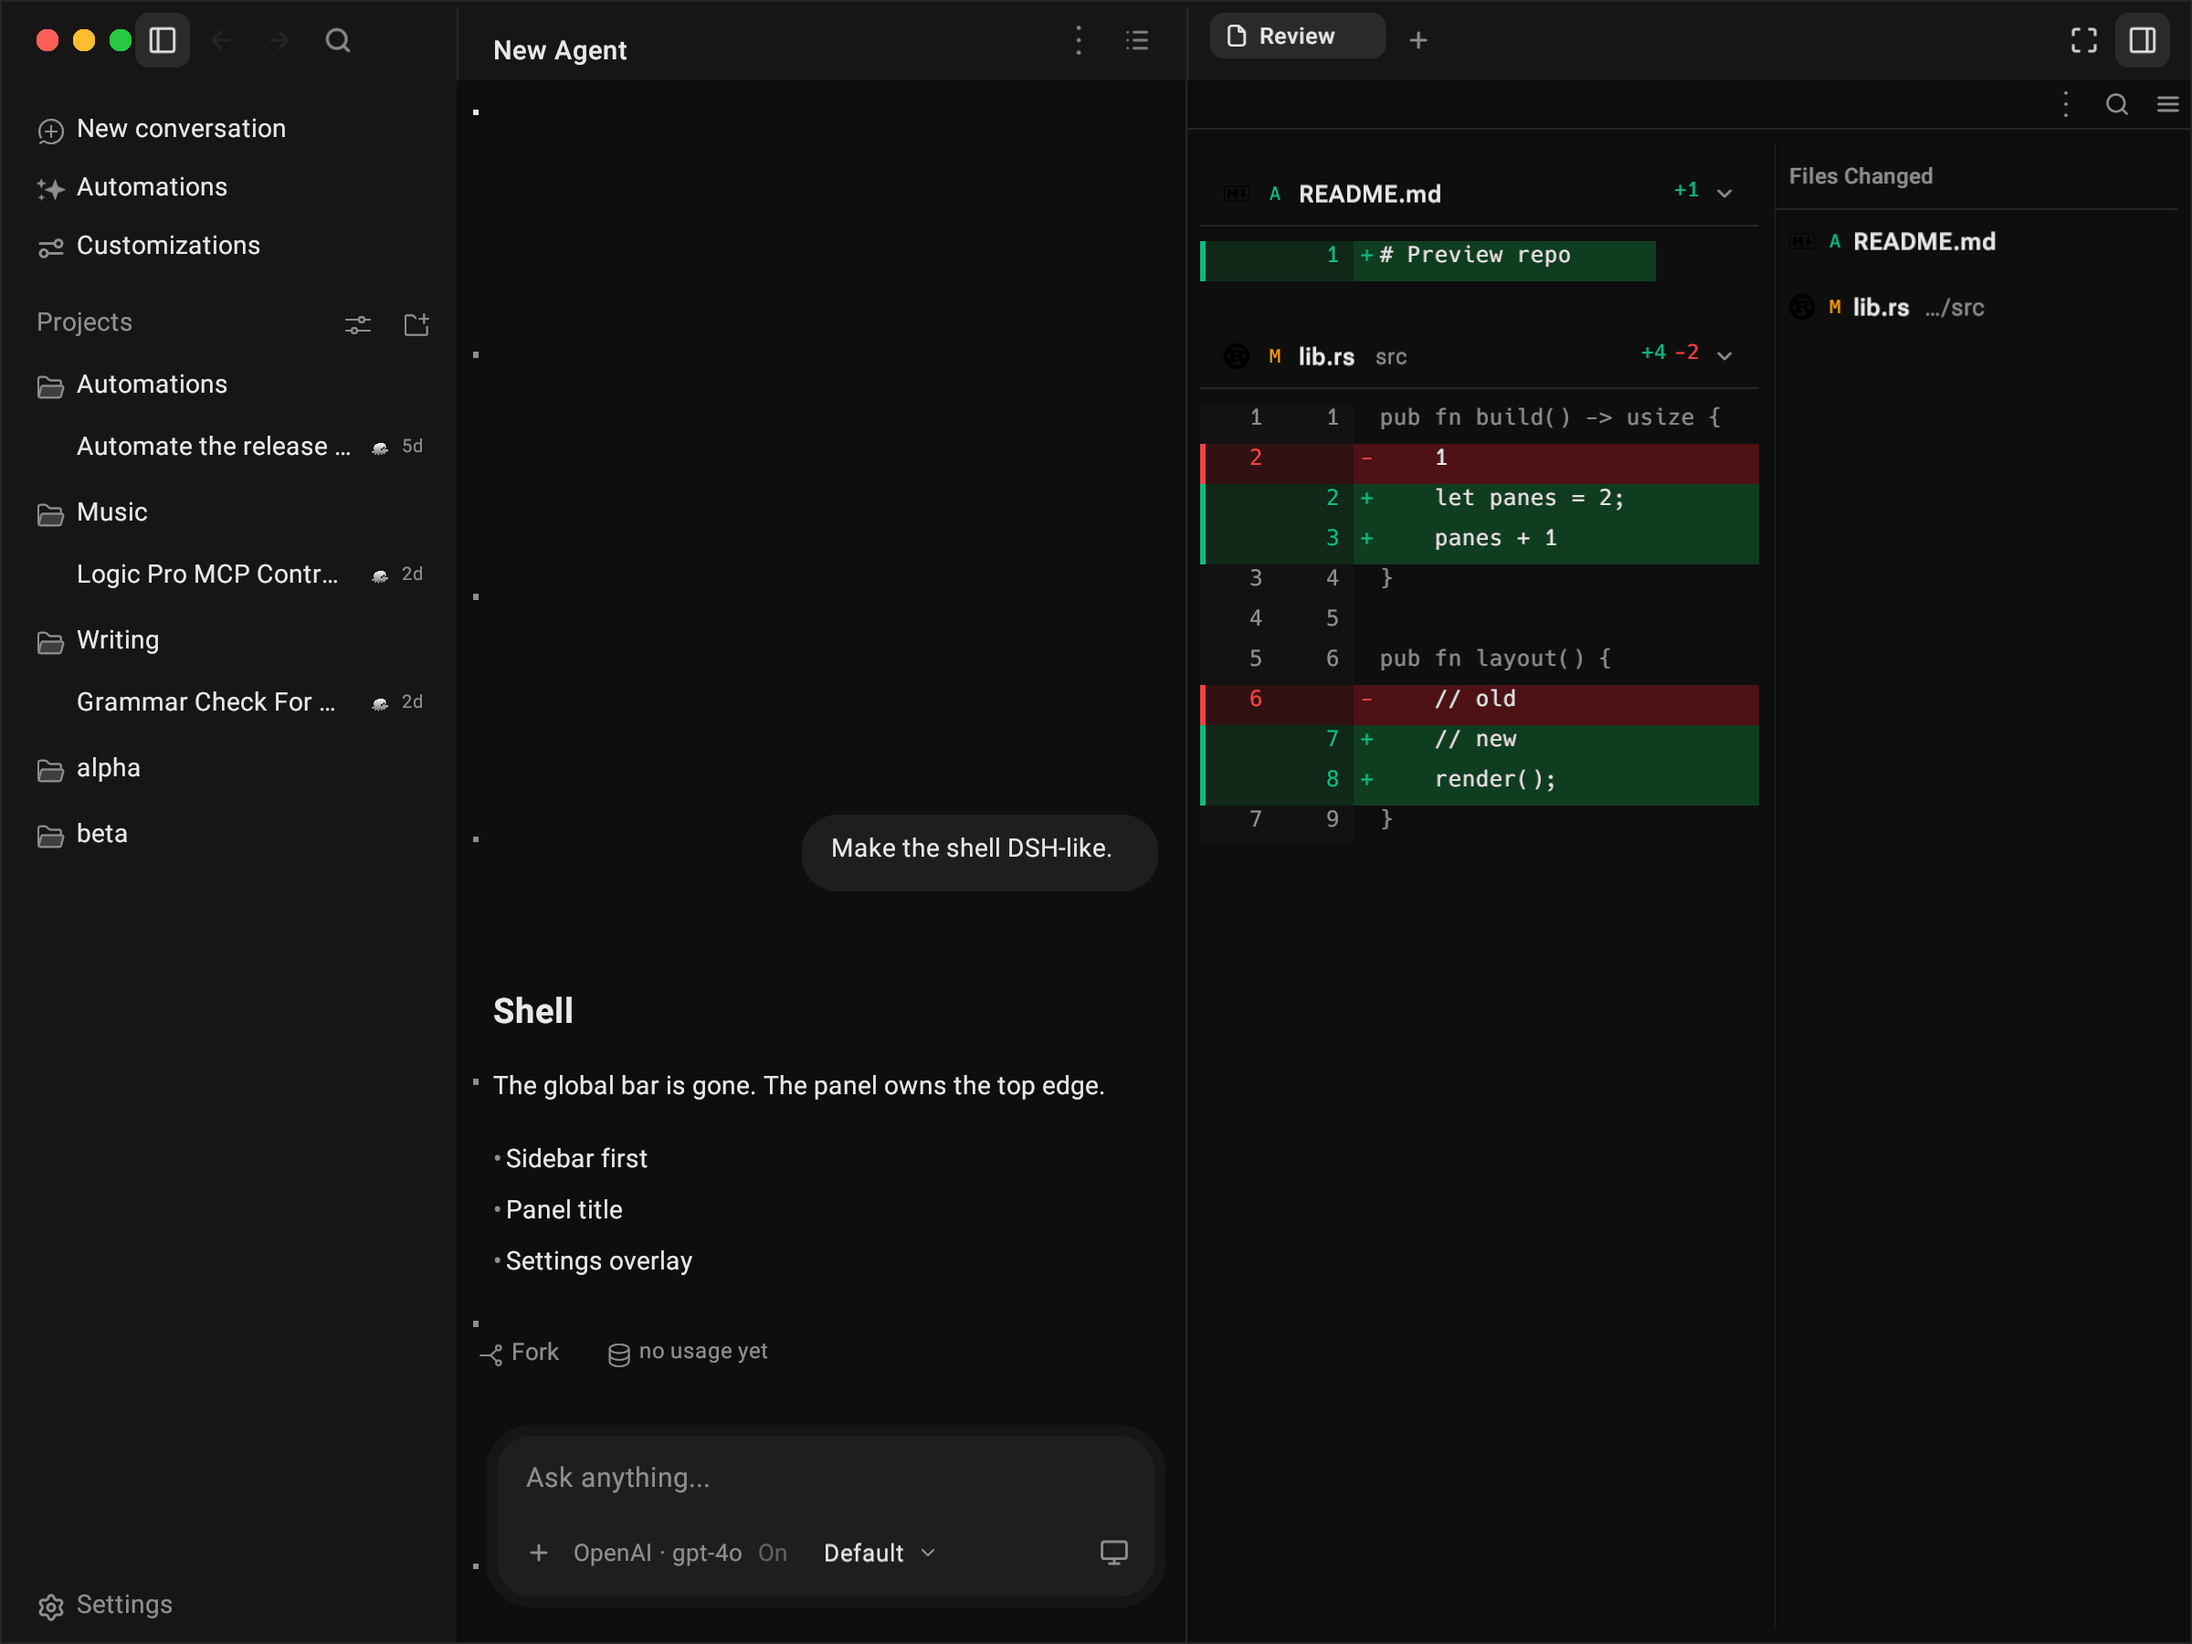
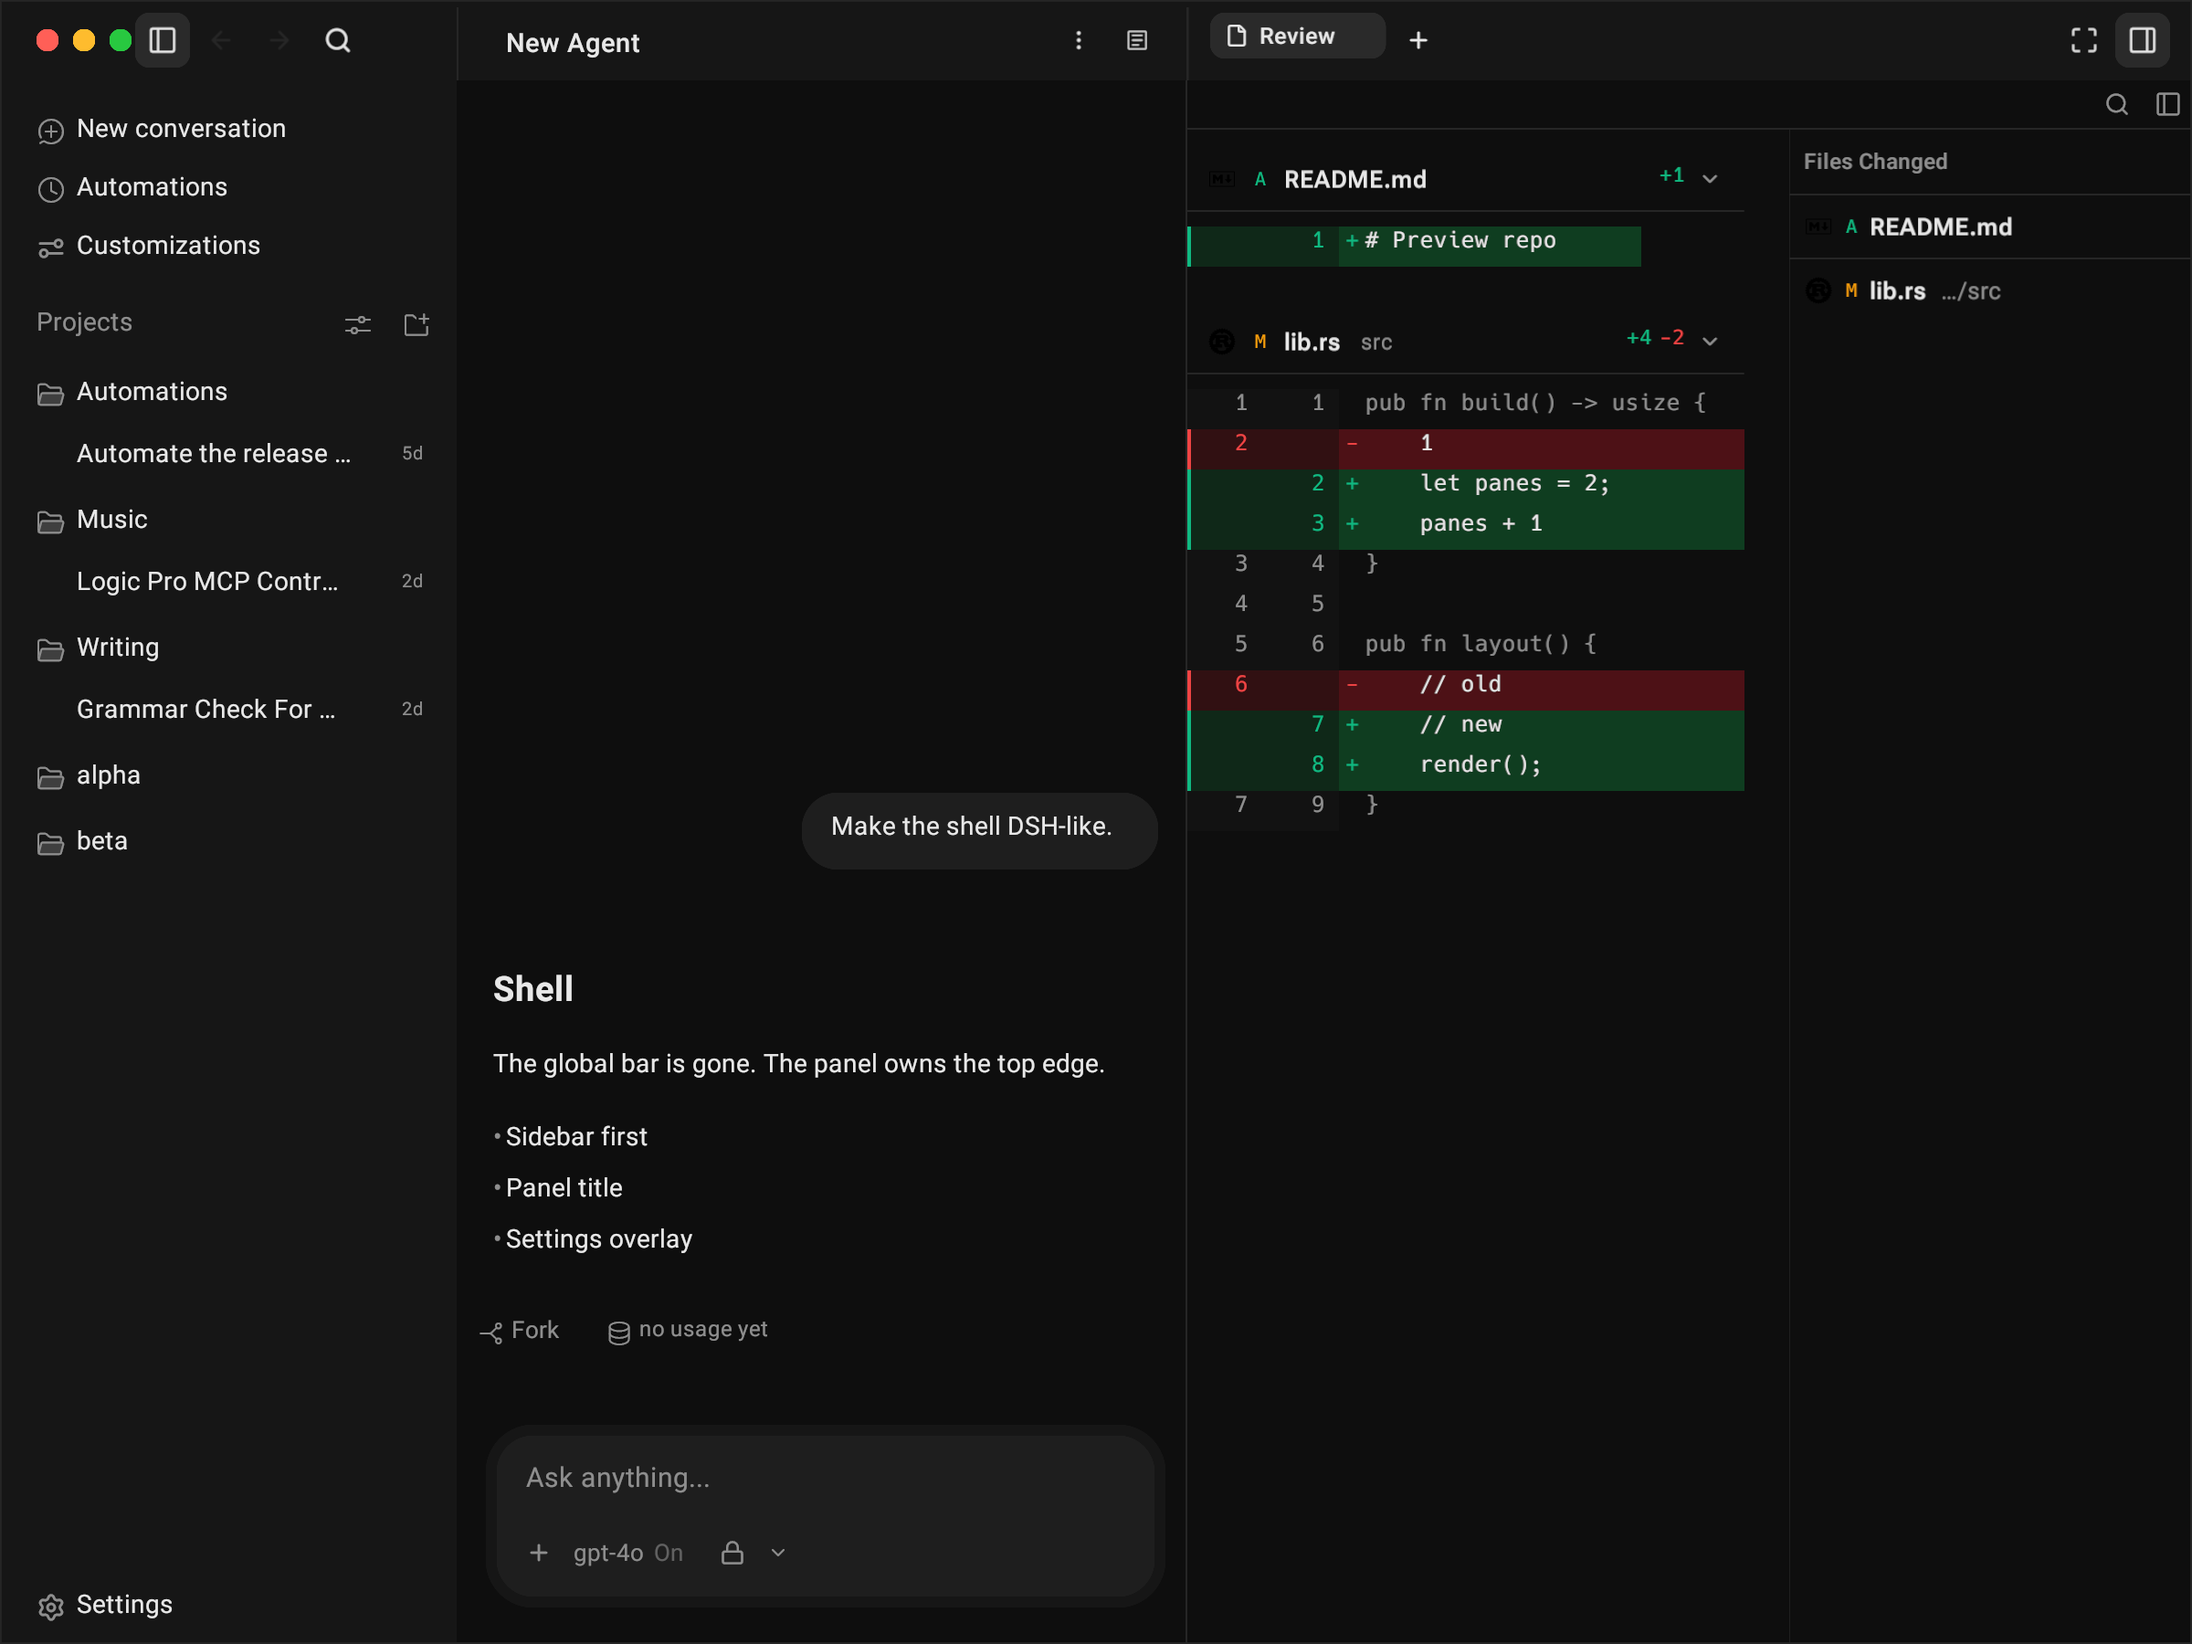
style(review): flat full-bleed panes, hover-only rows, search+sidebar topbar
470/471 — the side-panel Review surface drops its outer padding, card insets
and rounded row chips: diff panes and the Files Changed rail are full-bleed,
rows carry no rest background, the hover/selected surface is the only fill, and
full-width 1px separators divide rows.

472 — Review's own row now shows only Search and the sidebar (panel-left)
toggle; the kebab, review-options menu and extra icons are gone while the
general topbar keeps its own controls.

473 — Review uses the coloured file-type assets for changed files and the
Files Changed column; status letters stay separate.

474 — refreshed dark/light full and narrow Review previews.

Tests: goble-app 922 passed / 8 documented baseline failures; goble-ui 984
passed / 0 failed.

diff --git a/apps/desktop/src/ui/diff_panel.rs b/apps/desktop/src/ui/diff_panel.rs
@@ -377,7 +377,6 @@ pub(crate) fn build_review_tab(
                         .max(200.0),
                     rail_width,
                 ))
-                .with_padding(EdgeInsets::new(sm, sm, sm, sm))
                 .finish(),
             )
             .finish(),
@@ -419,26 +418,7 @@ fn build_review_topbar(app: &AppContext, actions: &UiActions, pane_id: u64) -> B
         let on_diff = on_diff.clone();
         move || (on_diff.borrow_mut())(pane_id, DiffPanelAction::ToggleSidebar)
     };
-    let toggle_menu = {
-        let on_diff = on_diff.clone();
-        move || (on_diff.borrow_mut())(pane_id, DiffPanelAction::ToggleCommit)
-    };
     let on_search = actions.on_spotlight.clone();
-    let kebab = Tooltip::new(
-        TopbarButton::new(
-            Icon::new("dots-vertical")
-                .with_size(14.0)
-                .with_theme_color(ColorToken::Muted, app)
-                .finish(),
-        )
-        .with_size(26.0)
-        .with_corner_radius(7.0)
-        .with_on_click(toggle_files)
-        .finish(),
-        "Review files",
-    )
-    .with_position(TooltipPosition::Below)
-    .finish();
     let search = Tooltip::new(
         TopbarButton::new(
             Icon::new("search")
@@ -456,18 +436,19 @@ fn build_review_topbar(app: &AppContext, actions: &UiActions, pane_id: u64) -> B
     )
     .with_position(TooltipPosition::Below)
     .finish();
-    let menu = Tooltip::new(
+    // 472: the Review row shows only Search and the sidebar toggle.
+    let sidebar = Tooltip::new(
         TopbarButton::new(
-            Icon::new("menu-01")
+            Icon::new("panel-left-outline")
                 .with_size(14.0)
                 .with_theme_color(ColorToken::Muted, app)
                 .finish(),
         )
         .with_size(26.0)
-        .with_corner_radius(14.0)
-        .with_on_click(toggle_menu)
+        .with_corner_radius(7.0)
+        .with_on_click(toggle_files)
         .finish(),
-        "Review options",
+        "Show/hide files",
     )
     .with_position(TooltipPosition::Below)
     .finish();
@@ -476,9 +457,8 @@ fn build_review_topbar(app: &AppContext, actions: &UiActions, pane_id: u64) -> B
         .with_cross_axis_alignment(CrossAxisAlignment::Center)
         .with_spacing(2.0)
         .with_child(Expanded::new(Empty::new().finish()).finish())
-        .with_child(kebab)
         .with_child(search)
-        .with_child(menu)
+        .with_child(sidebar)
         .finish();
     ConstrainedBox::new(row).with_height(32.0).finish()
 }

diff --git a/apps/desktop/src/ui/reviewer.rs b/apps/desktop/src/ui/reviewer.rs
@@ -1488,8 +1488,8 @@ pub(crate) fn files_changed_rail(
     let mut list = Flex::column()
         .with_main_axis_size(MainAxisSize::Min)
         .with_cross_axis_alignment(CrossAxisAlignment::Stretch)
-        .with_spacing(2.0);
-    for file in &detail.files {
+        .with_spacing(0.0);
+    for (index, file) in detail.files.iter().enumerate() {
         let path = file.path.clone();
         let absolute = file.absolute_path.clone();
         let sel = selected == Some(file.path.as_str());
@@ -1532,10 +1532,14 @@ pub(crate) fn files_changed_rail(
                 .finish(),
             )
             .finish();
+        // 471: flat full-bleed rows; no background at rest, only the hover/
+        // selected surface. The 1px rule is the row's only separator.
+        if index > 0 {
+            list = list.with_child(Divider::horizontal().finish());
+        }
         let row = HoverRow::new(
             Container::new(row)
-                .with_padding(EdgeInsets::new(7.0, 9.0, 7.0, 9.0))
-                .with_corner_radius(7.0)
+                .with_padding(EdgeInsets::new(8.0, 9.0, 8.0, 9.0))
                 .finish(),
         )
         .with_selected(sel)

diff --git a/apps/desktop/src/ui/build.rs b/apps/desktop/src/ui/build.rs
@@ -3968,10 +3968,17 @@ mod tests {
                 _ => None,
             })
             .collect();
-        for icon in ["dots-vertical", "search", "menu-01"] {
+        // 472: the Review row is only Search and the sidebar toggle.
+        for icon in ["search", "panel-left-outline"] {
             assert!(
                 review_row.contains(&icon),
                 "the review's own row carries {icon:?}: {review_row:?}"
+            );
+        }
+        for icon in ["dots-vertical", "menu-01"] {
+            assert!(
+                !review_row.contains(&icon),
+                "the review's own row drops {icon:?}: {review_row:?}"
             );
         }
         let border = app.theme.color(ColorToken::Border);
